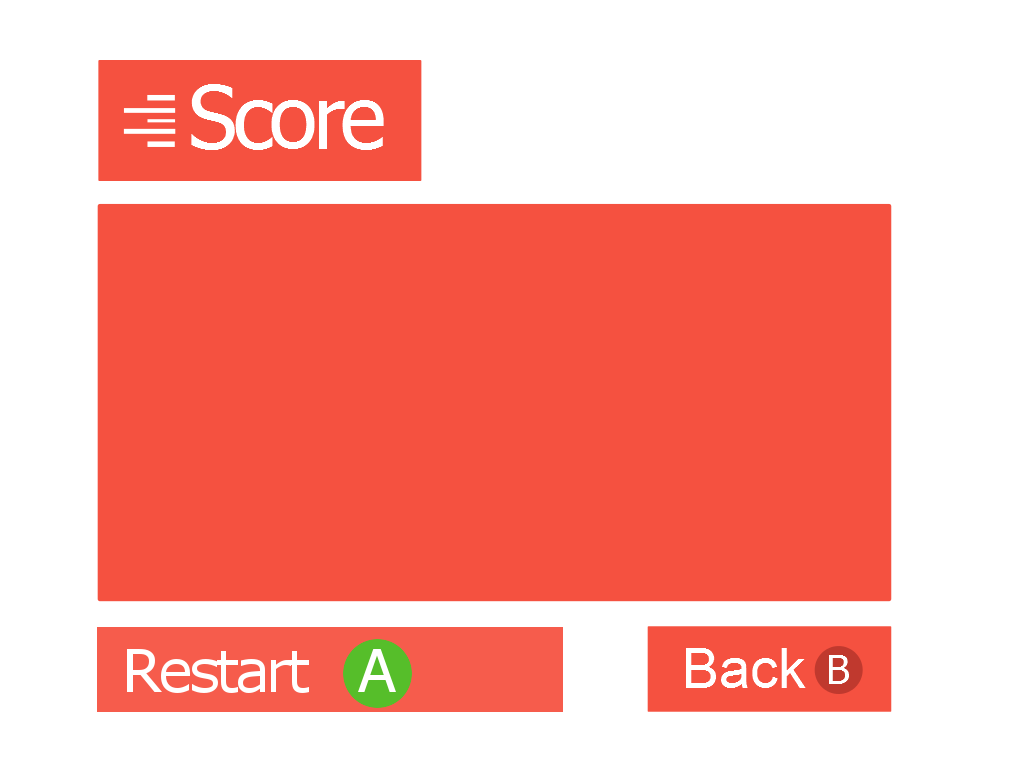
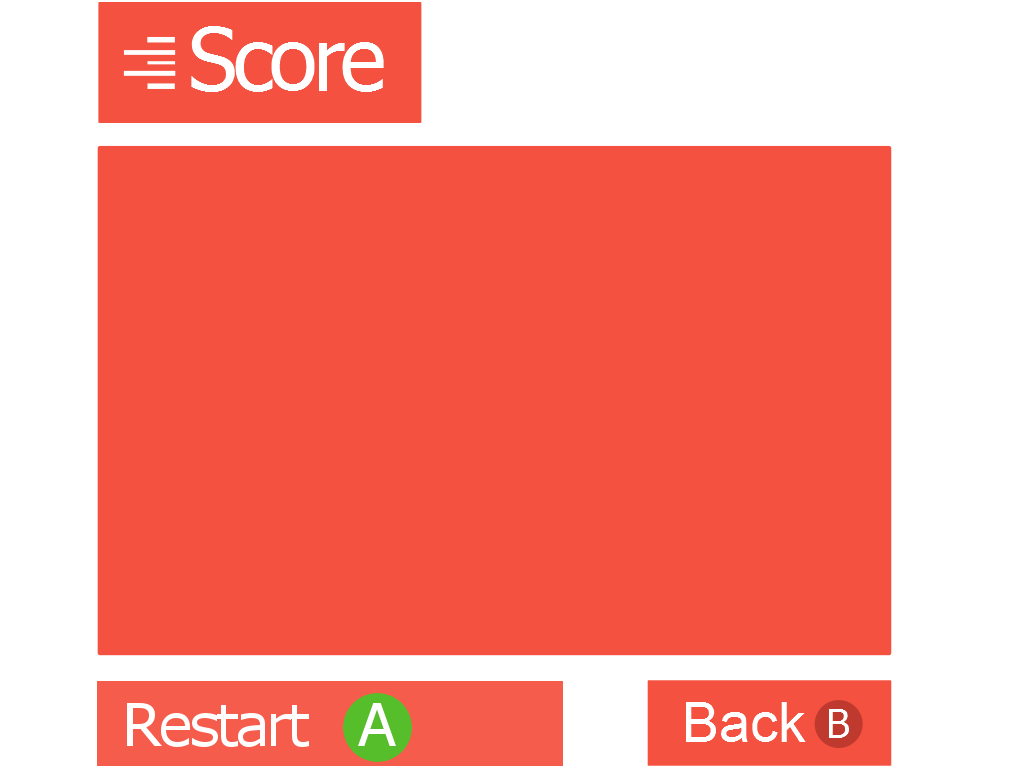
Fixed final score placement and image

Changed region(s): [[0.0938, 0.7812, 0.875, 1.0], [0.0938, 0.0, 0.875, 0.2812]]

diff --git a/component/rendering/rendering.cpp b/component/rendering/rendering.cpp
@@ -822,7 +822,7 @@ int Renderer::render( float fElapseSec )
 		glhUpdateBuffer( m_eftGUI, m_bufGUI );
 		glhEnableTexture( m_texGUIScore );
 		glhDrawMesh( m_eftGUI, m_mshGUIStart );
-		_DrawScoreBoard( 0, 0, 0 );
+		_DrawScoreBoard( 0, 100, 0 );
 		break;
 	case RS_DRIVING:
 		for( Int32 i = 0; i < aryCameras.size(); i++ )

diff --git a/component/gameai/gameai.cpp b/component/gameai/gameai.cpp
@@ -15,7 +15,7 @@
 #define REWARD_FOR_FLOATING_GOLD 5
 
 // Score to win
-#define FINAL_SCORE_GOAL 9
+#define FINAL_SCORE_GOAL 1
 // How much health to substruct on bullet hit
 #define DAMAGE_FROM_BULLET 1
 // Number of karts
